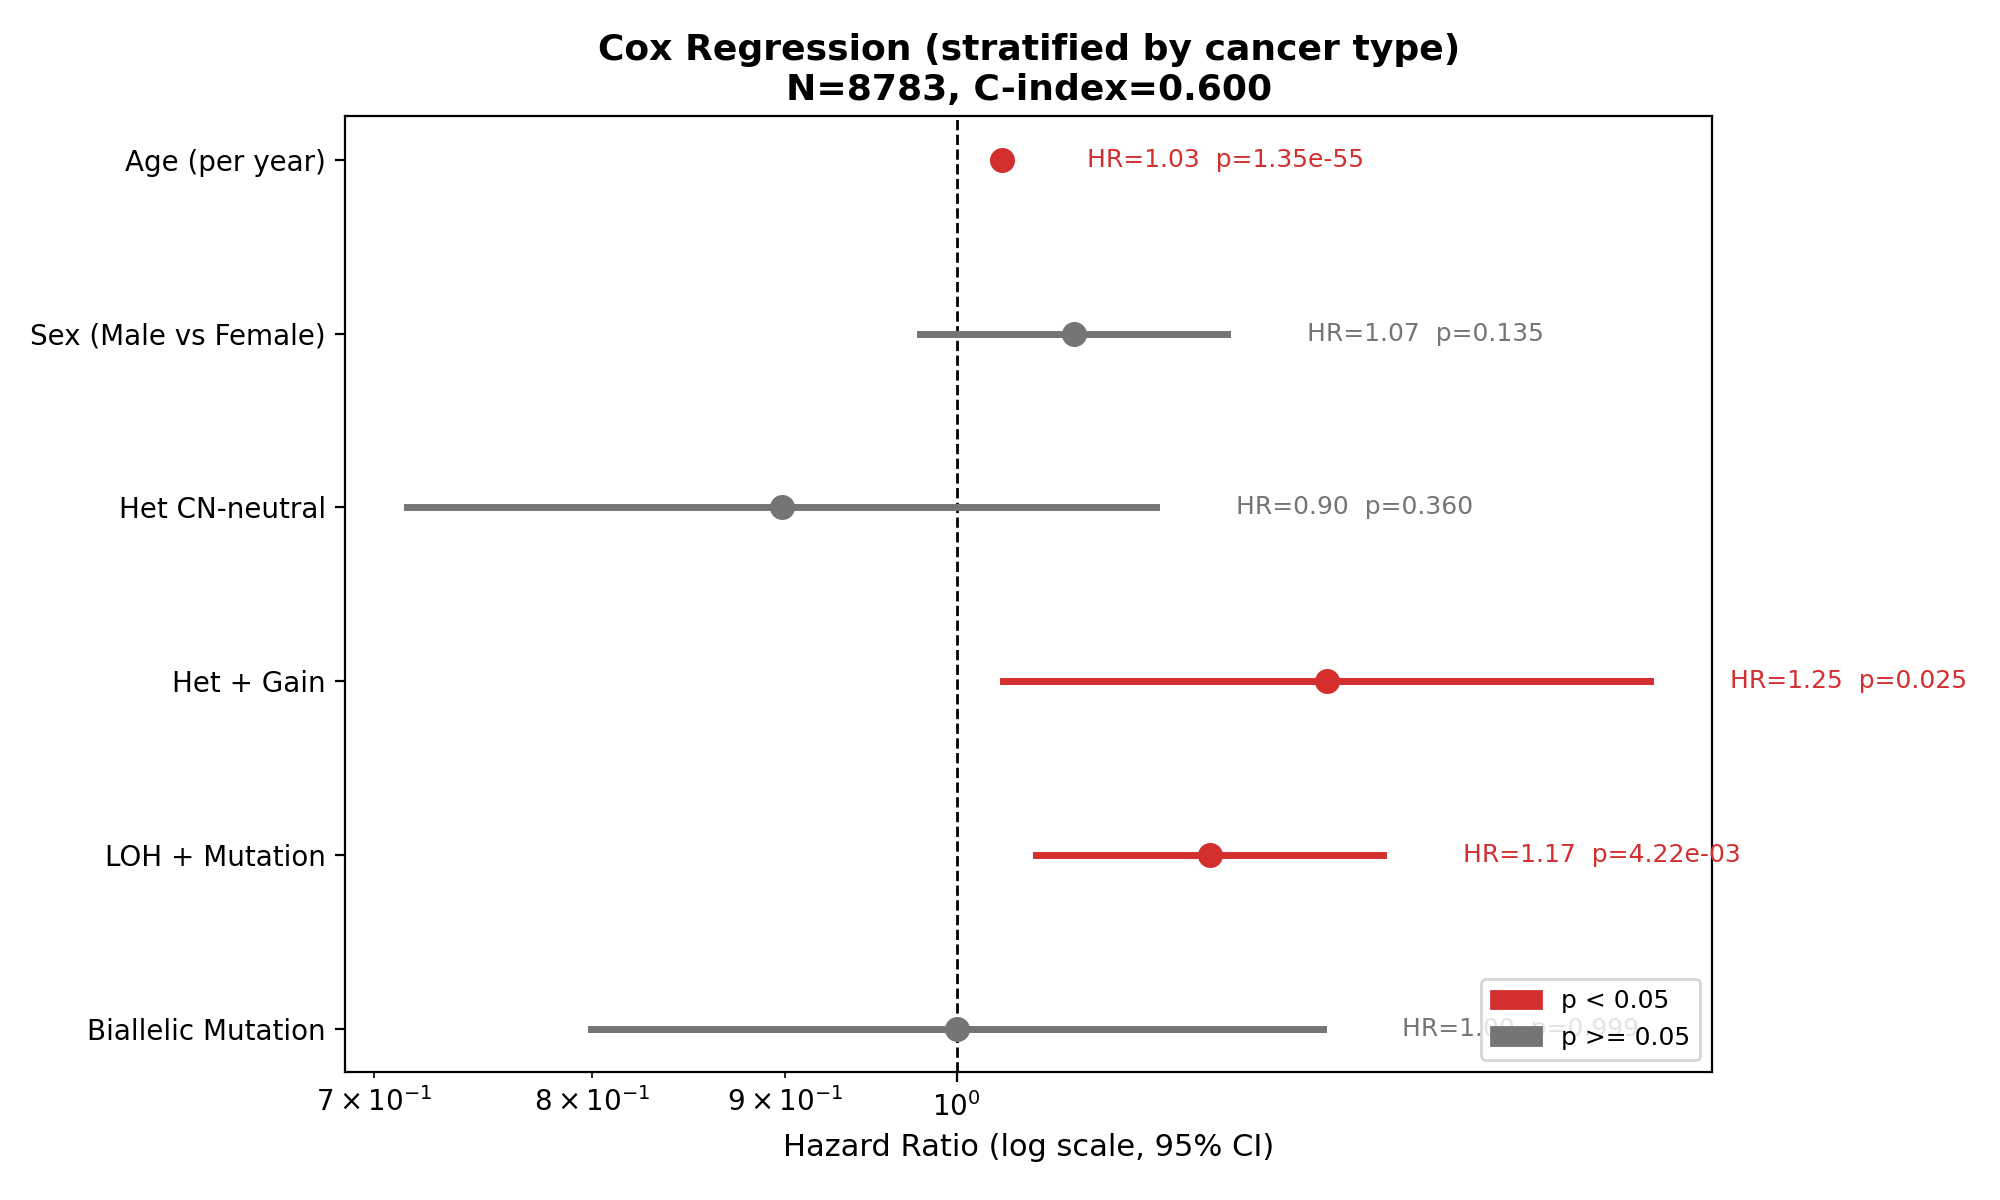
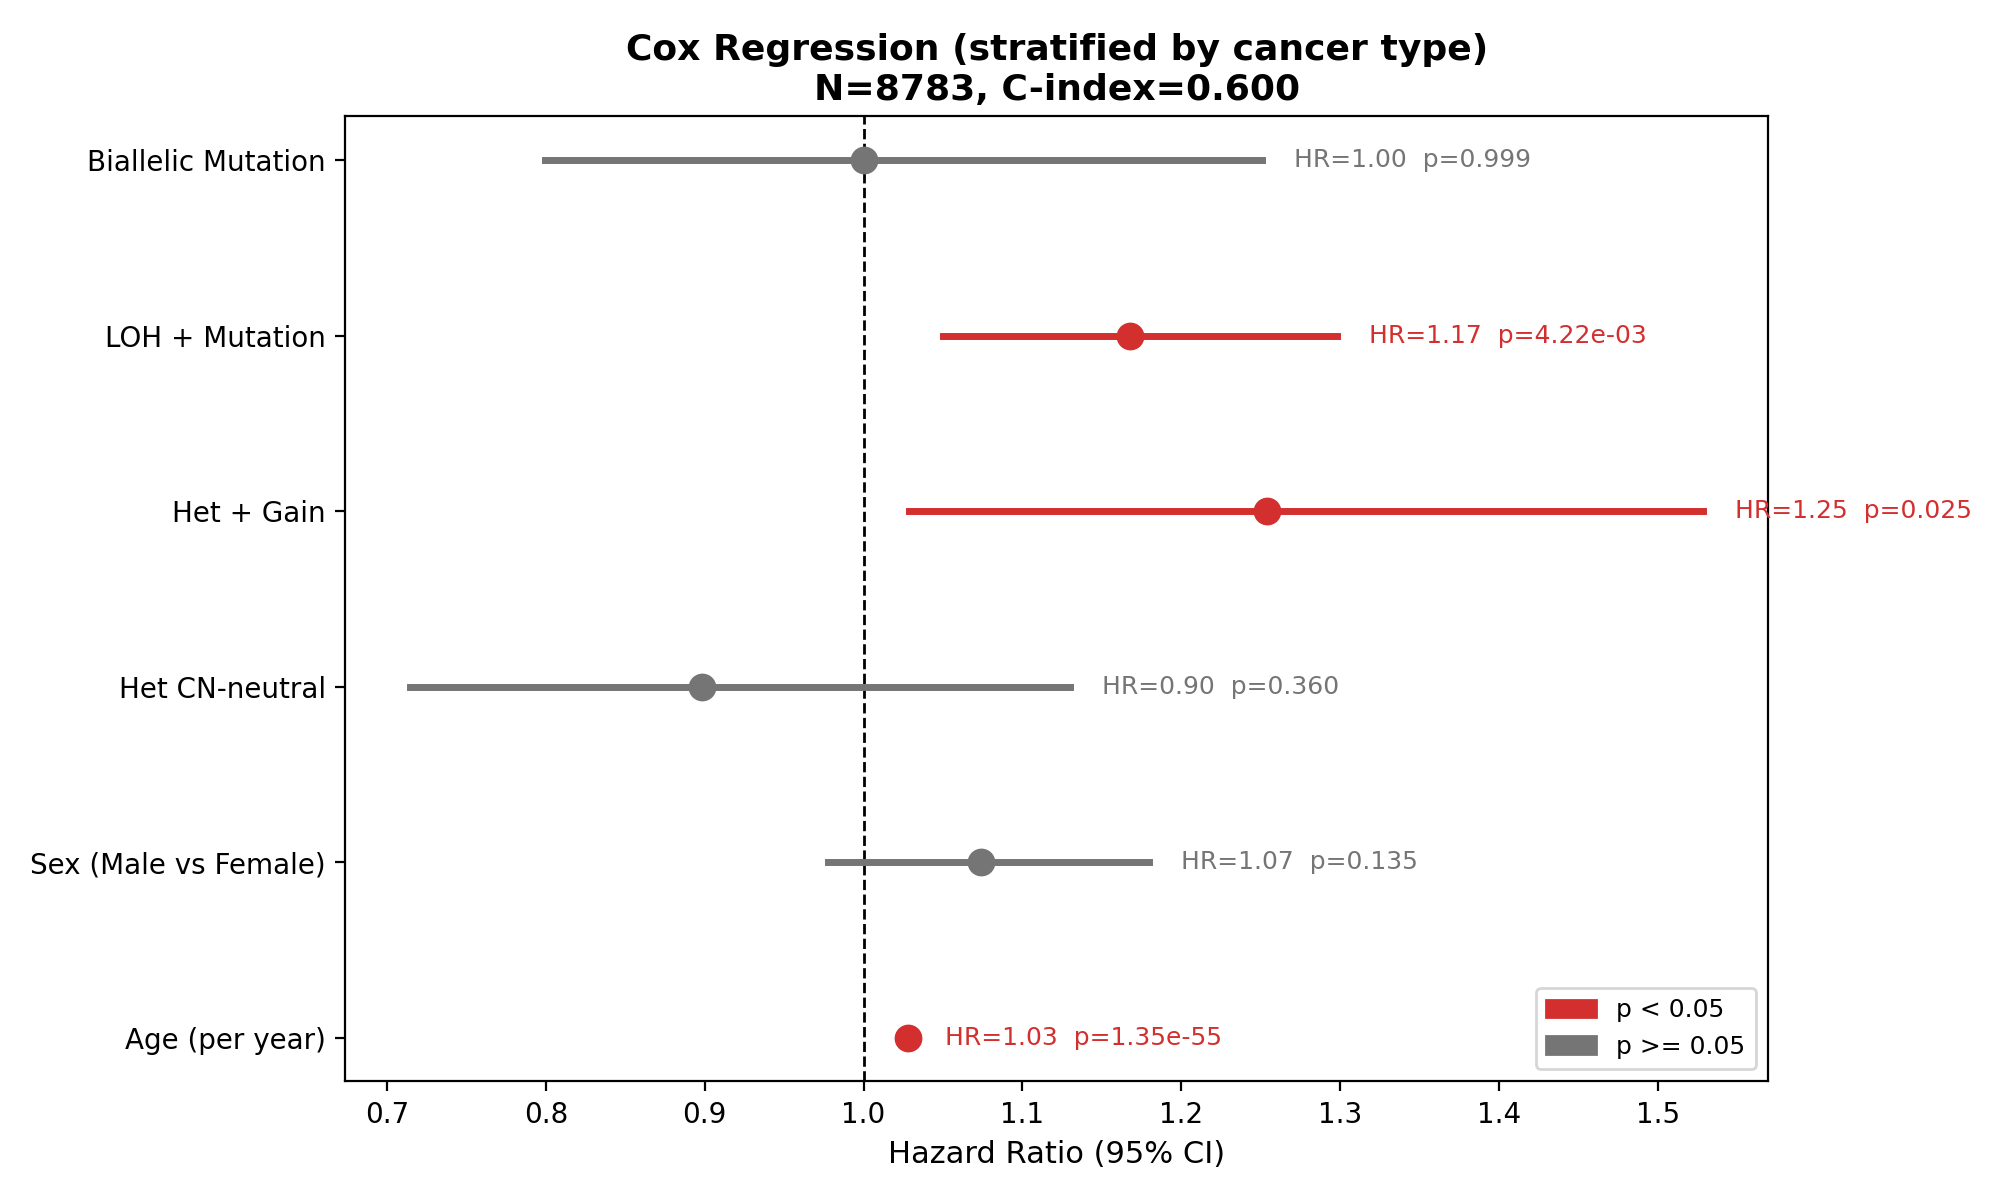
Updated figure generation. Corrected Cox Forest Plot x-axis

diff --git a/src/generate_figures.py b/src/generate_figures.py
@@ -236,6 +236,64 @@ def fig_msk_km():
     print(f"  Saved {path}")
 
 
+def fig_cox_forest(survival_df):
+    """Fig 4: Forest plot — Cox regression covariates (stratified by cancer type)."""
+    from survivalanalysis import cox_regression
+    cox = cox_regression(survival_df)
+    summary = cox['summary']
+
+    covariates = [
+        ('age', 'Age (per year)'),
+        ('sex_binary', 'Sex (Male vs Female)'),
+        ('allelic_state_heterozygous_cn_neutral', 'Het CN-neutral'),
+        ('allelic_state_heterozygous_with_gain', 'Het + Gain'),
+        ('allelic_state_loh_with_mutation', 'LOH + Mutation'),
+        ('allelic_state_biallelic_mutation', 'Biallelic Mutation'),
+    ]
+
+    records = []
+    for key, label in covariates:
+        if key not in summary.index:
+            continue
+        row = summary.loc[key]
+        records.append({
+            'label': label,
+            'hr': row['exp(coef)'],
+            'ci_low': row['exp(coef) lower 95%'],
+            'ci_high': row['exp(coef) upper 95%'],
+            'p': row['p'],
+        })
+
+    df = pd.DataFrame(records)
+
+    fig, ax = plt.subplots(figsize=(10, max(6, len(df) * 0.8)))
+    y = np.arange(len(df))
+
+    for i, row in enumerate(df.itertuples()):
+        color = '#D32F2F' if row.p < 0.05 else '#757575'
+        ax.plot([row.ci_low, row.ci_high], [i, i], color=color, linewidth=2.5, zorder=2)
+        ax.plot(row.hr, i, 'o', color=color, markersize=9, zorder=3)
+        hr_str = f"HR={row.hr:.2f}  p={row.p:.2e}" if row.p < 0.01 else f"HR={row.hr:.2f}  p={row.p:.3f}"
+        ax.text(row.ci_high + 0.02, i, hr_str, va='center', fontsize=9, color=color)
+
+    ax.axvline(x=1.0, color='black', linestyle='--', linewidth=1, zorder=1)
+    ax.set_yticks(y)
+    ax.set_yticklabels(df['label'], fontsize=10)
+    ax.set_xlabel('Hazard Ratio (95% CI)', fontsize=11)
+    ax.set_title(f'Cox Regression (stratified by cancer type)\nN={cox["n_observations"]}, C-index={cox["concordance"]:.3f}',
+                 fontsize=13, fontweight='bold')
+
+    sig_patch = mpatches.Patch(color='#D32F2F', label='p < 0.05')
+    ns_patch = mpatches.Patch(color='#757575', label='p >= 0.05')
+    ax.legend(handles=[sig_patch, ns_patch], loc='lower right', fontsize=9)
+
+    plt.tight_layout()
+    path = os.path.join(FIGURES_DIR, 'cox_forest_plot.png')
+    fig.savefig(path, dpi=200)
+    plt.close(fig)
+    print(f"  Saved {path}")
+
+
 if __name__ == '__main__':
     print("Loading TCGA data...")
     mutations = load_mutations()
@@ -246,7 +304,10 @@ if __name__ == '__main__':
     print("\nGenerating Fig 1: Allelic state by cancer type...")
     fig_allelic_bar_by_cancer(mutations, cna, clinical)
 
-    print("\nGenerating Fig 4: Per-cancer forest plot...")
+    print("\nGenerating Fig 4: Cox regression forest plot...")
+    fig_cox_forest(survival_df)
+
+    print("\nGenerating Fig 5: Per-cancer forest plot...")
     fig_per_cancer_forest(survival_df)
 
     print("\nGenerating Fig 5: DepMap Nutlin-3a box plot...")